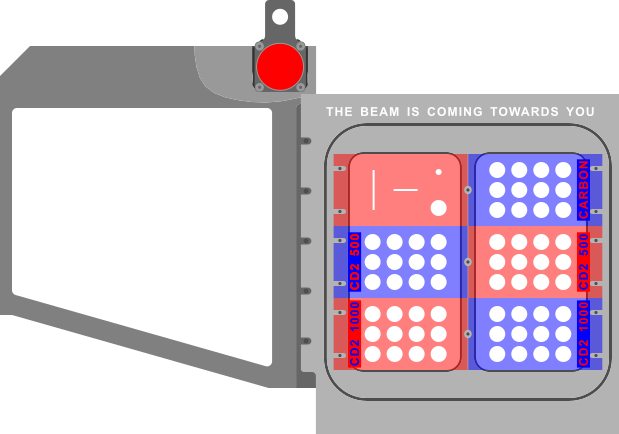
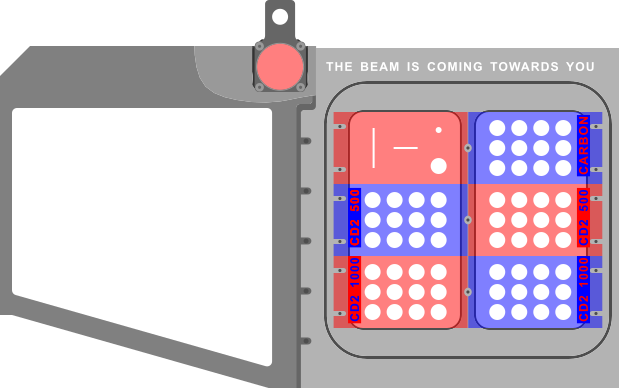
Fixed another bug where the target ladder image was incorrect. Flipped the ladder the right way around.

diff --git a/drivesystemguilib.py b/drivesystemguilib.py
@@ -56,13 +56,13 @@ AXIS_LABELS = ['Target carriage',
 #   'key':               'descript.',                                Width  Height Colour     axis
 MOTOR_AXIS_DICT = {
     'SiA': MotorAxisInfo( 'Si array', ARRAY_SUPPORT_TO_END_OF_SILICON,  35.0, '#FD3F0D', 0 ), # The width was changed from 610.0 after elog:6071
-    'TaC': MotorAxisInfo( 'Target carriage',                           450.0, 270.0, '#0DE30B', 1 ),
-    'ArC': MotorAxisInfo( 'Array bed',                                 350.0, 195.0, '#FDD11F', 2 ),
-    'TLH': MotorAxisInfo( 'Targ ladder H',                              80.0, 130.0, '#00A7FA', 3 ),
-    'Det': MotorAxisInfo( 'Diagnostic Detectors',                       80.0, 130.0, '#910BE3', 4 ),
-    'TLV': MotorAxisInfo( 'Target ladder V',                           309.4, 217.0, '#00A7FA', 5 ),
-    'BBH': MotorAxisInfo( 'Beam blocker H',                             80.0, 130.0, '#910BE3', 6 ),
-    'BBV': MotorAxisInfo( 'Beam blocker V',                            169.5, 123.0, '#910BE3', 7 )
+    'TaC': MotorAxisInfo( 'Target carriage',                           450.0, 270.0, '#0DE30B', 1 ), # PlotView
+    'ArC': MotorAxisInfo( 'Array bed',                                 350.0, 195.0, '#FDD11F', 2 ), # PlotView
+    'TLH': MotorAxisInfo( 'Targ ladder H',                              80.0, 130.0, '#00A7FA', 3 ), # PlotView
+    'Det': MotorAxisInfo( 'Diagnostic Detectors',                       80.0, 130.0, '#910BE3', 4 ), # PlotView
+    'TLV': MotorAxisInfo( 'Target ladder V',                           309.4, 194.0, '#00A7FA', 5 ), # BeamView
+    'BBH': MotorAxisInfo( 'Beam blocker H',                             80.0, 130.0, '#910BE3', 6 ), # PlotView
+    'BBV': MotorAxisInfo( 'Beam blocker V',                            169.5, 123.0, '#910BE3', 7 )  # BeamView
 }
 
 # Wrapped in a function to make dark mode work!
